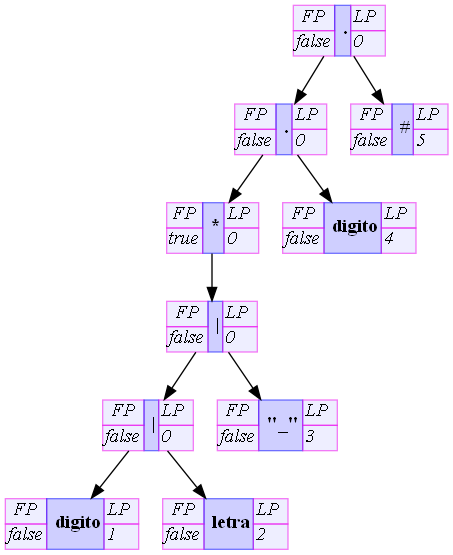
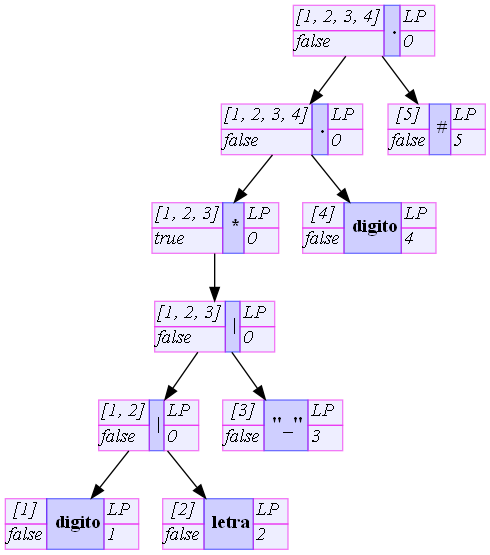
Agregar First pos a los nodos del árbol

Changed region(s): [[0.0, 0.0, 1.0, 1.0], [0.7417, 0.7351, 0.7726, 0.7964]]

diff --git a/EXREGAN/src/Objects/AST.java b/EXREGAN/src/Objects/AST.java
@@ -7,6 +7,10 @@ package Objects;
 import Main.EXREGAN;
 import java.io.File;
 import java.io.PrintWriter;
+import java.util.ArrayList;
+import java.util.HashSet;
+import java.util.LinkedList;
+import java.util.Set;
 import javax.swing.tree.DefaultMutableTreeNode;
 
 
@@ -22,10 +26,13 @@ public class AST {
     private boolean anulable;
     private int no;
     private int leafs;
+    private ArrayList <Integer> firstPos = new ArrayList<Integer>();
+    private ArrayList <Integer> lastPos = new ArrayList<Integer>();
     private AST leftSon;
     private AST rightSon;
     
     public AST(int i, String v, AST l, AST r){
+      
         this.id = i;
         this.value = v;
         this.leftSon = l;
@@ -40,6 +47,8 @@ public class AST {
     public String getName(){
         return this.name;
     }
+    
+    
     
     public void setAnulables(AST actual){
         //aplico recorrido post-orden para iniciar de las hojas a la raiz
@@ -82,10 +91,6 @@ public class AST {
         }
     }
     
-    public void analizeAnulables(String val){
-        
-    }
-    
     public void setLeafNodes(AST actual){
         if(actual != null){
             if(actual.leftSon == null){
@@ -111,7 +116,52 @@ public class AST {
         return this.anulable;
     }
     
+    public void setFirst(AST actual){
+        if(actual != null){
+            setFirst(actual.leftSon);
+            setFirst(actual.rightSon);
+            
+            if(actual.value == "."){ // union
+                //si el hijo iz es anulable, first pos = first pos a + first pos b
+                if(actual.leftSon.isAnulable()){
+                    combineList(actual.leftSon.firstPos, actual.rightSon.firstPos, actual);
+                }else{
+                    //first pos = first pos a
+                    actual.firstPos.addAll(actual.leftSon.firstPos);
+                } 
+            }else if(actual.value == "|"){// or
+                //first pos = first pos a + first pos b
+                combineList(actual.leftSon.firstPos, actual.rightSon.firstPos, actual);
+                
+            }else if(actual.value == "*"){// cerradura de kleene
+                //first pos = first pos a
+                actual.firstPos.addAll(actual.leftSon.firstPos);
+                
+            }else if(actual.value == "+"){ // 1 o mas
+                //first pos = first pos a
+                actual.firstPos.addAll(actual.leftSon.firstPos);
+                
+            }else if(actual.value == "?"){ //0 o una vez
+                //first pos = first pos a
+                actual.firstPos.addAll(actual.leftSon.firstPos);
+                
+            }else if(actual.no > 0){ //es nodo hoja
+                //first pos = no de hoja
+                actual.firstPos.add(actual.no);
+            } 
+
+           
+        }
+            
+    }
     
+    
+    public void combineList(ArrayList listA, ArrayList listB, AST actual){
+        Set<Integer> setCombined = new HashSet<>(listA);
+        setCombined.addAll(listB);
+        actual.firstPos.addAll(setCombined);
+        System.out.println(actual.firstPos);
+    }
     
     public void preorderGraph(AST actual, String [] nodes){
         if(actual != null){
@@ -120,7 +170,7 @@ public class AST {
 "		label=<<table border=\"0\" cellborder=\"1\" cellspacing=\"0\" cellpadding=\"1\">\n" +
 "			\n" +
 "			<tr> \n" +
-"			    <td align=\"center\" bgcolor = \"#0000ff11\" color=\"#ee00ee80\"><i>FP</i></td>\n" +
+"			    <td align=\"center\" bgcolor = \"#0000ff11\" color=\"#ee00ee80\"><i>"+actual.firstPos+"</i></td>\n" +
 "			    <td rowspan = \"2\" aling= \"center\" fontsize = \"25\" bgcolor = \"#0000ff30\" color=\"#0000ff80\"> <b>"+actual.value+"</b></td> \n" +
 "			    <td align=\"center\" bgcolor = \"#0000ff11\" color=\"#ee00ee80\"><i>LP </i></td>\n" +
 "			</tr>\n" +
@@ -208,6 +258,7 @@ public class AST {
         this.setName(nameA);
         this.setLeafNodes(this);
         this.setAnulables(this);
+        this.setFirst(this);
         this.graph();
     }
     
